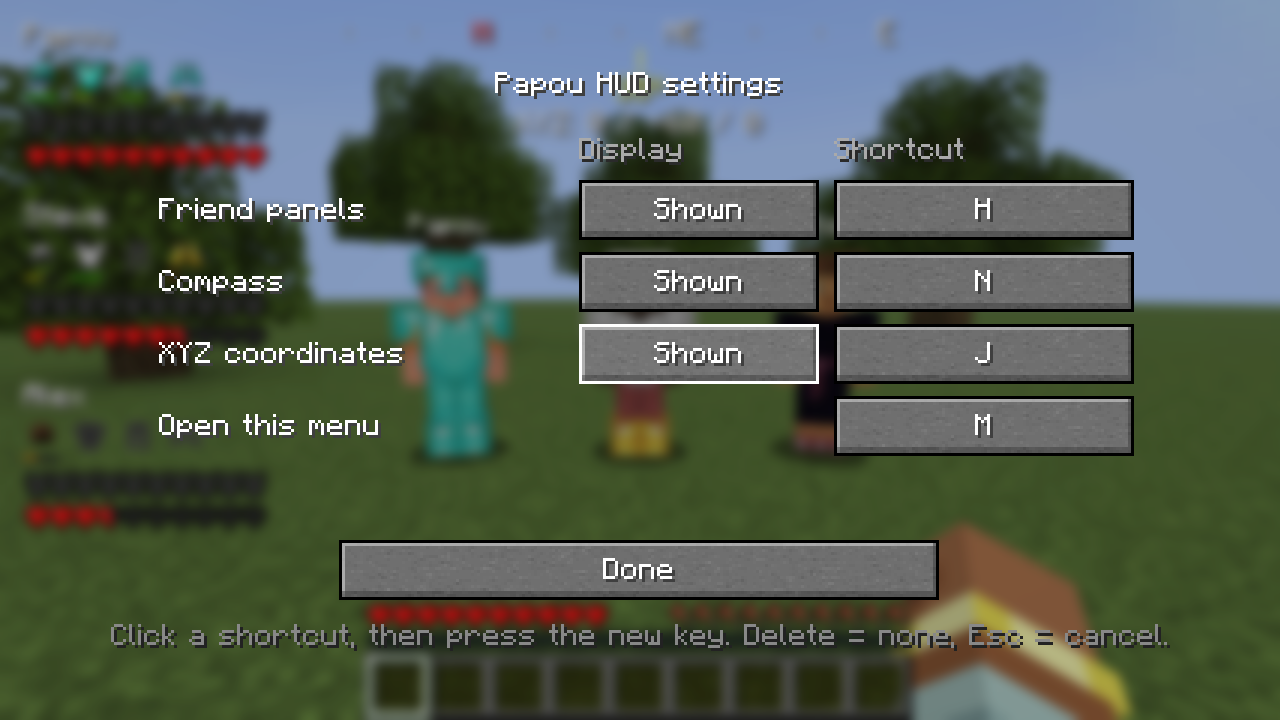
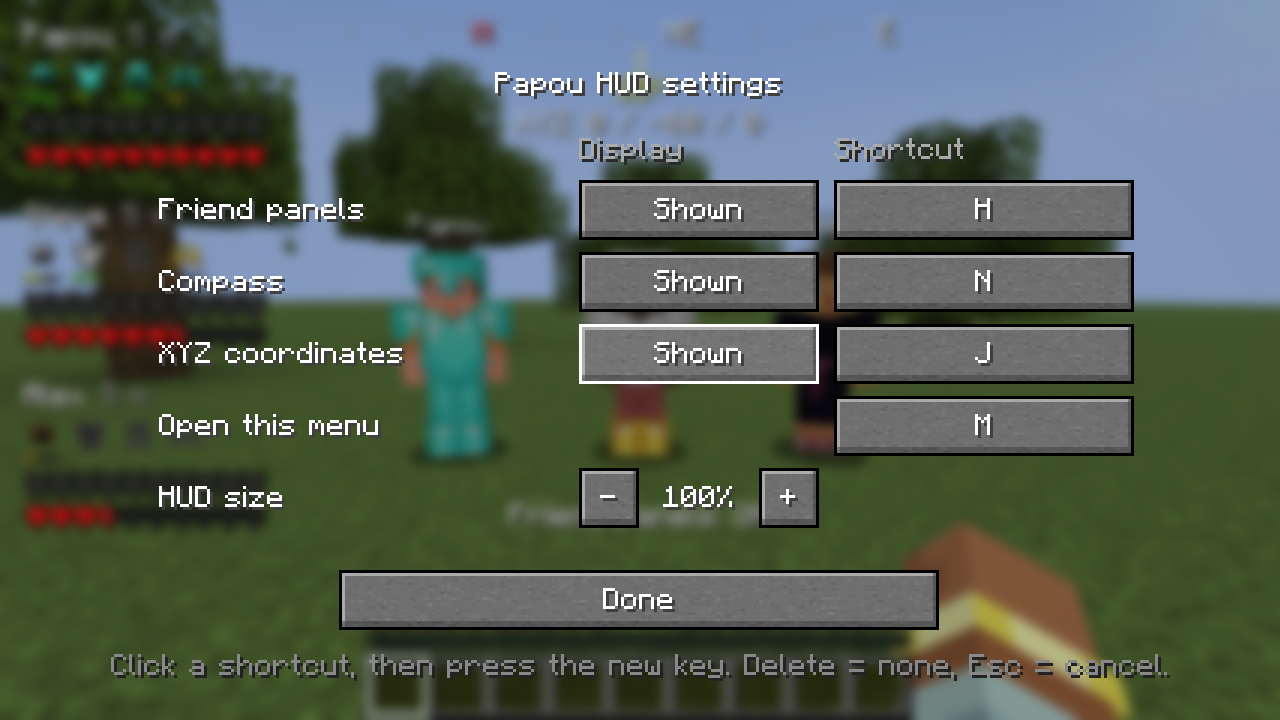
Papou HUD 1.4.3: HUD size setting
The settings menu gets a "HUD size" row: - and + scale the friend
panels, compass and coordinates from 50% to 150% in steps of 10%
(hudScale in papou.json). The README's config example now shows the
26.3 key codes.

diff --git a/src/main/java/com/giulio/papouhud/PapouConfigScreen.java b/src/main/java/com/giulio/papouhud/PapouConfigScreen.java
@@ -7,11 +7,12 @@ import net.minecraft.client.gui.screens.Screen;
 import net.minecraft.client.input.KeyEvent;
 import net.minecraft.network.chat.Component;
 
-/** Menu di Papou: elementi attivi/disattivi e scorciatoie da tastiera. */
+/** Menu di Papou: elementi attivi/disattivi, scorciatoie da tastiera e dimensione dell'HUD. */
 public class PapouConfigScreen extends Screen {
 	private static final int ROW_HEIGHT = 24;
 	private static final int TOGGLE_WIDTH = 80;
 	private static final int KEY_WIDTH = 100;
+	private static final int SIZE_BUTTON_WIDTH = 20;
 
 	private final Screen parent;
 	private final PapouConfig config = PapouConfig.get();
@@ -20,6 +21,8 @@ public class PapouConfigScreen extends Screen {
 			"papouhud.element.panels", "papouhud.element.compass", "papouhud.element.coords", "papouhud.element.menu"};
 	private final Button[] toggleButtons = new Button[3];
 	private final Button[] keyButtons = new Button[4];
+	private Button smallerButton;
+	private Button biggerButton;
 	/** Indice della scorciatoia in attesa di un tasto, -1 se nessuna. */
 	private int listening = -1;
 
@@ -51,9 +54,27 @@ public class PapouConfigScreen extends Screen {
 			}).bounds(cx + 65, y, KEY_WIDTH, 20).build());
 		}
 
-		addRenderableWidget(Button.builder(Component.translatable("gui.done"), button -> onClose())
-				.bounds(cx - 100, top + elementKeys.length * ROW_HEIGHT + 24, 200, 20).build());
+		// Riga della dimensione dell'HUD: [-] 100% [+], nella colonna dei pulsanti Mostra.
+		int sizeY = top + elementKeys.length * ROW_HEIGHT;
+		smallerButton = addRenderableWidget(Button.builder(Component.literal("-"), button -> changeHudScale(-1))
+				.bounds(cx - 20, sizeY, SIZE_BUTTON_WIDTH, 20).build());
+		biggerButton = addRenderableWidget(Button.builder(Component.literal("+"), button -> changeHudScale(1))
+				.bounds(cx - 20 + TOGGLE_WIDTH - SIZE_BUTTON_WIDTH, sizeY, SIZE_BUTTON_WIDTH, 20).build());
 
+		addRenderableWidget(Button.builder(Component.translatable("gui.done"), button -> onClose())
+				.bounds(cx - 100, top + rows() * ROW_HEIGHT + 10, 200, 20).build());
+
+		refreshLabels();
+	}
+
+	/** Righe del menu: gli elementi piu' la dimensione dell'HUD. */
+	private int rows() {
+		return elementKeys.length + 1;
+	}
+
+	private void changeHudScale(int steps) {
+		config.hudScale = PapouConfig.clampHudScale(config.hudScale + steps * PapouConfig.HUD_SCALE_STEP);
+		config.save();
 		refreshLabels();
 	}
 
@@ -92,6 +113,8 @@ public class PapouConfigScreen extends Screen {
 	}
 
 	private void refreshLabels() {
+		smallerButton.active = config.hudScale > PapouConfig.MIN_HUD_SCALE;
+		biggerButton.active = config.hudScale < PapouConfig.MAX_HUD_SCALE;
 		for (int i = 0; i < toggleButtons.length; i++) {
 			toggleButtons[i].setMessage(Component.translatable(
 					isEnabled(i) ? "papouhud.config.on" : "papouhud.config.off"));
@@ -143,8 +166,12 @@ public class PapouConfigScreen extends Screen {
 					cx - 160, top + i * ROW_HEIGHT + 6, 0xFFFFFFFF, true);
 		}
 
+		int sizeY = top + elementKeys.length * ROW_HEIGHT;
+		graphics.text(this.font, Component.translatable("papouhud.config.size"), cx - 160, sizeY + 6, 0xFFFFFFFF, true);
+		graphics.centeredText(this.font, Component.literal(config.hudScale + "%"), cx + 20, sizeY + 6, 0xFFFFFFFF);
+
 		graphics.centeredText(this.font, Component.translatable("papouhud.config.hint"),
-				cx, top + elementKeys.length * ROW_HEIGHT + 52, 0xFF888888);
+				cx, top + rows() * ROW_HEIGHT + 38, 0xFF888888);
 	}
 
 	@Override

diff --git a/src/main/java/com/giulio/papouhud/PapouHudClient.java b/src/main/java/com/giulio/papouhud/PapouHudClient.java
@@ -19,7 +19,8 @@ import net.minecraft.util.Mth;
  *    di caricamento; se il server ha Papou HUD (o il plugin Paper) manda anche gli altri (vedi
  *    PlayersSync e RemotePlayers);
  *  - una bussola in alto con direzione e punti cardinali, e sotto le coordinate XYZ;
- *  - un menu (tasto configurabile) per attivare/disattivare gli elementi e scegliere le scorciatoie;
+ *  - un menu (tasto configurabile) per attivare/disattivare gli elementi, scegliere le scorciatoie
+ *    e la dimensione dell'HUD (pannelli, bussola e coordinate; vedi PapouConfig.hudScale);
  *  - all'avvio, un popup se su GitHub c'e' una versione piu' recente (vedi UpdateChecker);
  *  - nelle fornaci, l'XP accumulata (vedi FurnaceXpOverlay e, lato server, FurnaceXpSync);
  *  - dopo la morte, un teschio sulla locator bar e promemoria in chat per 5 minuti (vedi DeathMarker);
@@ -95,11 +96,26 @@ public class PapouHudClient implements ClientModInitializer {
 			return;
 		}
 
+		float scale = PapouConfig.get().hudScaleFactor();
+		graphics.pose().pushMatrix();
+		graphics.pose().scale(scale, scale);
 		int top = MARGIN;
 		for (PlayerPanel.Data panel : PlayerPanel.collect(mc)) {
 			PlayerPanel.draw(graphics, mc, panel, MARGIN, top);
 			top += PlayerPanel.height(panel) + PANEL_GAP;
 		}
+		graphics.pose().popMatrix();
+	}
+
+	/**
+	 * Applica la dimensione dell'HUD e restituisce la larghezza dello schermo nelle coordinate scalate,
+	 * per centrare bussola e coordinate. Va chiuso con {@code graphics.pose().popMatrix()}.
+	 */
+	private static int pushHudScale(GuiGraphicsExtractor graphics) {
+		float scale = PapouConfig.get().hudScaleFactor();
+		graphics.pose().pushMatrix();
+		graphics.pose().scale(scale, scale);
+		return Math.round(graphics.guiWidth() / scale);
 	}
 
 	private static void renderCompass(GuiGraphicsExtractor graphics, DeltaTracker deltaTracker) {
@@ -112,7 +128,7 @@ public class PapouHudClient implements ClientModInitializer {
 		float bearing = Mth.wrapDegrees(mc.player.getYRot() + 180.0f);
 		float normalized = (bearing + 360.0f) % 360.0f;
 
-		int centerX = graphics.guiWidth() / 2;
+		int centerX = pushHudScale(graphics) / 2;
 		int top = MARGIN;
 
 		// Tacche ogni 15 gradi, lettere ogni 45.
@@ -136,6 +152,7 @@ public class PapouHudClient implements ClientModInitializer {
 		graphics.fill(centerX, top + 12, centerX + 1, top + 20, 0xFFFFFF55);
 		String degrees = Math.round(normalized) % 360 + "°";
 		graphics.text(mc.font, degrees, centerX - mc.font.width(degrees) / 2, top + 22, 0xFFFFFF55, true);
+		graphics.pose().popMatrix();
 	}
 
 	private static void renderCoords(GuiGraphicsExtractor graphics, DeltaTracker deltaTracker) {
@@ -148,6 +165,8 @@ public class PapouHudClient implements ClientModInitializer {
 		// Subito sotto i gradi della bussola; senza bussola sale in alto.
 		int y = config.compassEnabled ? MARGIN + 33 : MARGIN;
 		String text = "XYZ: " + mc.player.getBlockX() + " / " + mc.player.getBlockY() + " / " + mc.player.getBlockZ();
-		graphics.text(mc.font, text, graphics.guiWidth() / 2 - mc.font.width(text) / 2, y, 0xFFFFFFFF, true);
+		int width = pushHudScale(graphics);
+		graphics.text(mc.font, text, width / 2 - mc.font.width(text) / 2, y, 0xFFFFFFFF, true);
+		graphics.pose().popMatrix();
 	}
 }

diff --git a/src/main/java/com/giulio/papouhud/PapouConfig.java b/src/main/java/com/giulio/papouhud/PapouConfig.java
@@ -18,6 +18,10 @@ import net.fabricmc.loader.api.FabricLoader;
  */
 public final class PapouConfig {
 	public static final int NO_KEY = -1;
+	/** Dimensione dell'HUD (pannelli, bussola, coordinate) in percento: da 50 a 150, a passi di 10. */
+	public static final int MIN_HUD_SCALE = 50;
+	public static final int MAX_HUD_SCALE = 150;
+	public static final int HUD_SCALE_STEP = 10;
 	/** 3 = tasti con i codici di SDL (Minecraft 26.3): quelli salvati prima erano codici GLFW. */
 	private static final int CURRENT_VERSION = 3;
 
@@ -33,6 +37,9 @@ public final class PapouConfig {
 
 	/** Dopo la morte, teschio sulla locator bar e promemoria in chat per 5 minuti. */
 	public boolean deathMarkerEnabled = true;
+
+	/** Dimensione dell'HUD in percento (100 = normale). Cambia dal menu con - e +. */
+	public int hudScale = 100;
 
 	/** Versione del formato: se il file salvato e' piu' vecchio, le scorciatoie tornano ai valori predefiniti. */
 	public int configVersion;
@@ -64,6 +71,7 @@ public final class PapouConfig {
 						loaded.keyMenu = defaults.keyMenu;
 						loaded.configVersion = CURRENT_VERSION;
 					}
+					loaded.hudScale = clampHudScale(loaded.hudScale);
 					return loaded;
 				}
 			} catch (IOException | RuntimeException e) {
@@ -73,6 +81,15 @@ public final class PapouConfig {
 		PapouConfig fresh = new PapouConfig();
 		fresh.configVersion = CURRENT_VERSION;
 		return fresh;
+	}
+
+	static int clampHudScale(int percent) {
+		return Math.max(MIN_HUD_SCALE, Math.min(MAX_HUD_SCALE, percent));
+	}
+
+	/** Fattore di scala dell'HUD (1 = normale). */
+	public float hudScaleFactor() {
+		return clampHudScale(hudScale) / 100.0f;
 	}
 
 	public void save() {

diff --git a/src/gametest/java/com/giulio/papouhud/ScreenshotGameTest.java b/src/gametest/java/com/giulio/papouhud/ScreenshotGameTest.java
@@ -92,6 +92,12 @@ public class ScreenshotGameTest implements FabricClientGameTest {
 			context.takeScreenshot(options("settings"));
 			context.setScreen(() -> null);
 
+			// HUD size: the panels, compass and coordinates at 60% (not a README screenshot).
+			context.runOnClient(mc -> PapouConfig.get().hudScale = 60);
+			context.waitTicks(2);
+			context.takeScreenshot(options("hud-60"));
+			context.runOnClient(mc -> PapouConfig.get().hudScale = 100);
+
 			farFriends(context);
 
 			furnaceXp(context, world);

diff --git a/README.md b/README.md
@@ -42,7 +42,7 @@ Everything works on any server, including vanilla ones, with nothing installed s
 
 Shortcuts only fire while you are in game with no screen open. Toggling an element shows a short ON/OFF message above the hotbar.
 
-In the settings menu, click a shortcut and press the new key. `Delete` or `Backspace` clears it (no key), `Esc` cancels.
+In the settings menu, click a shortcut and press the new key. `Delete` or `Backspace` clears it (no key), `Esc` cancels. The **HUD size** row makes the friend panels, compass and coordinates smaller (`-`) or bigger (`+`), from 50% to 150%; the rest of the game's interface stays as it is.
 
 ![Settings menu with display toggles and shortcuts](docs/screenshots/settings.png)
 
@@ -132,15 +132,16 @@ Settings are saved automatically to `config/papou.json` in your game directory:
   "coordsEnabled": true,
   "checkForUpdates": true,
   "deathMarkerEnabled": true,
-  "configVersion": 2,
-  "keyPanels": 72,
-  "keyCompass": 78,
-  "keyCoords": 74,
-  "keyMenu": 77
+  "hudScale": 100,
+  "configVersion": 3,
+  "keyPanels": 11,
+  "keyCompass": 17,
+  "keyCoords": 13,
+  "keyMenu": 16
 }
 ```
 
-Keys are GLFW key codes; `-1` means no key. If the file is missing or unreadable, the defaults are used.
+`hudScale` is the size of the friend panels, compass and coordinates in percent, from 50 to 150 (the `-` and `+` buttons in the settings menu change it by 10). Keys use Minecraft's key codes, which since Minecraft 26.3 are SDL scancodes (e.g. `M` = 16); `-1` means no key. If the file is missing or unreadable, the defaults are used.
 
 The mod is translated into English and Italian.
 

diff --git a/release-notes/v1.4.3.md b/release-notes/v1.4.3.md
@@ -1,0 +1,10 @@
+Papou HUD for **Minecraft 26.3**. Players with 1.4.0 or later get this update from the popup at startup.
+
+## New: HUD size
+
+The settings menu (`M`) has a new **HUD size** row: `-` makes the friend panels, compass and coordinates smaller, `+` makes them bigger, from 50% to 150% in steps of 10%. Only Papou HUD changes size; the rest of the game's interface stays as it is. The change shows right away and is saved with the other settings.
+
+## Files
+
+- `papouhud-1.4.3.jar`: the mod, for players (and for Fabric servers).
+- `papouhud-paper-1.4.3.jar`: the plugin for Paper 26.3 servers. It doesn't go in `.minecraft/mods`.
